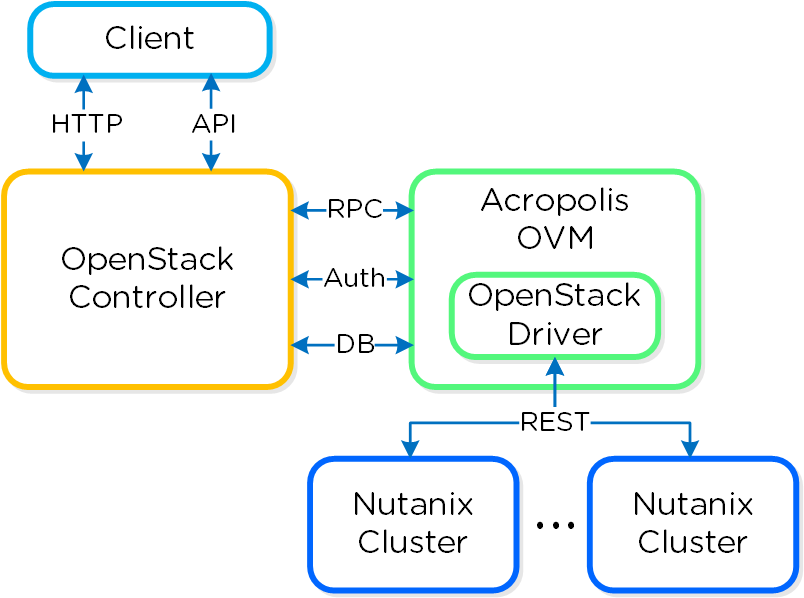
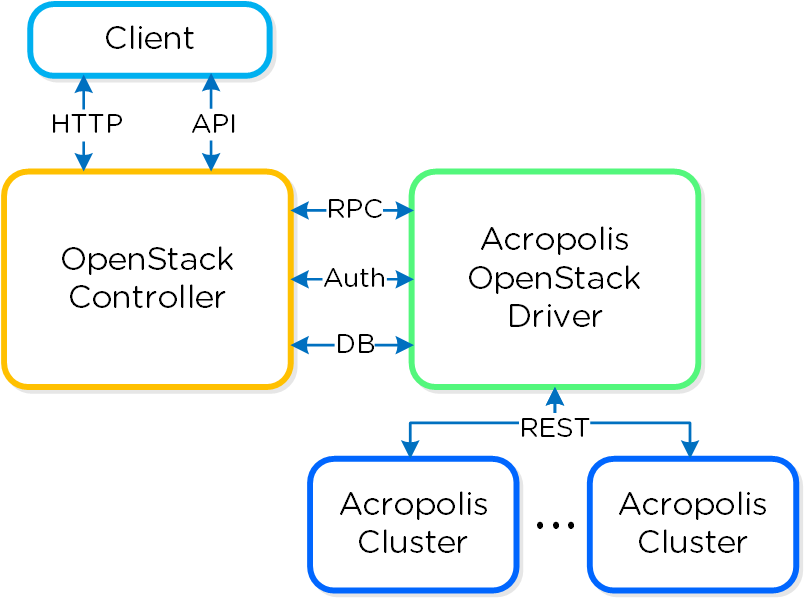
Updating OpenStack images to refer to driver

Changed region(s): [[0.5597, 0.301, 0.8396, 0.7525], [0.4042, 0.8127, 0.6219, 0.8729], [0.7774, 0.8127, 0.9639, 0.8729]]

diff --git a/index.html b/index.html
@@ -2239,8 +2239,8 @@ $vms = Get-NTNXVM | where {$_.vmName -match $searchString}</p>
 
 <p>The figure shows a high-level overview of the communication:</p>
 
-<figure id="id-0OtMtbsQtW"><img alt="OpenStack + Acropolis OVM" src="imagesv2/openstack_overview2.png">
-<figcaption><span class="label">Figure 9-1. </span>OpenStack + Acropolis OVM</figcaption>
+<figure id="id-0OtMtbsQtW"><img alt="OpenStack + Acropolis OpenStack Driver" src="imagesv2/openstack_overview2.png">
+<figcaption><span class="label">Figure 9-1. </span>OpenStack + Acropolis OpenStack Driver</figcaption>
 </figure>
 
 <div data-type="note" class="note" id="supported-openstack-controllers-kpi1fysgtX"><h6>Note</h6>
